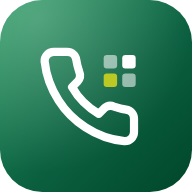
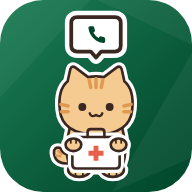
앱 마크 교체 (고양이)
Claude-Session: https://claude.ai/code/session_01H2dhBdsTd4MUACLFPyjzes

diff --git a/index.html b/index.html
@@ -370,12 +370,17 @@ nav.tabs button[aria-current="page"] { color: #fff; background: var(--brand-grad
 .rstar { border: 0; background: none; width: 28px; height: 26px; padding: 0; display: inline-grid; place-items: center; color: var(--faint); opacity: .5; flex: none }
 .rstar[aria-pressed="true"] { color: #9aa61a; opacity: 1 }
 .dutyOff { text-align: center; color: var(--faint); font-size: 12px; margin: 4px 0 0 }
+/* 앱 마크(고양이) — 그림에 바탕이 들어 있어 배경색은 없앰 */
+.logo-icon, .lock .mark { background: none !important }
+.logo-icon img, .lock .mark img { width: 100%; height: 100%; display: block }
+.logo-icon { width: 36px; height: 36px }
+.lock .mark { width: 76px; height: 76px }
 </style>
 </head>
 <body>
 <div id="lockView" class="lock gut" hidden>
   <div class="box">
-    <div class="mark"><svg width="28" height="28" viewBox="0 0 24 24" fill="none" stroke="#fff" stroke-width="2.2" stroke-linecap="round" stroke-linejoin="round"><path d="M22 16.9v3a2 2 0 0 1-2.2 2 19.8 19.8 0 0 1-8.6-3.1 19.5 19.5 0 0 1-6-6A19.8 19.8 0 0 1 2.1 4.2 2 2 0 0 1 4.1 2h3a2 2 0 0 1 2 1.7c.1.9.4 1.8.7 2.7a2 2 0 0 1-.5 2.1L8 9.8a16 16 0 0 0 6 6l1.3-1.3a2 2 0 0 1 2.1-.4c.9.3 1.8.6 2.7.7a2 2 0 0 1 1.7 2z"/></svg></div>
+    <div class="mark"><img src="icons/logo.svg" alt=""></div>
     <h1>전담 콜북</h1>
     <p id="lockMsg">관리자에게 받은 비밀번호를 입력하세요</p>
     <input id="pw" type="password" inputmode="text" autocomplete="current-password" placeholder="비밀번호" >
@@ -387,7 +392,7 @@ nav.tabs button[aria-current="page"] { color: #fff; background: var(--brand-grad
 <div id="appView" hidden>
   <header class="top gut" id="top">
     <div>
-      <div class="brand"><div class="logo"><span class="logo-icon"><svg width="18" height="18" viewBox="0 0 24 24" fill="none" stroke="#fff" stroke-width="2.2" stroke-linecap="round" stroke-linejoin="round"><path d="M22 16.9v3a2 2 0 0 1-2.2 2 19.8 19.8 0 0 1-8.6-3.1 19.5 19.5 0 0 1-6-6A19.8 19.8 0 0 1 2.1 4.2 2 2 0 0 1 4.1 2h3a2 2 0 0 1 2 1.7c.1.9.4 1.8.7 2.7a2 2 0 0 1-.5 2.1L8 9.8a16 16 0 0 0 6 6l1.3-1.3a2 2 0 0 1 2.1-.4c.9.3 1.8.6 2.7.7a2 2 0 0 1 1.7 2z"/></svg></span><div><div class="logo-text">전담 콜북</div><div class="meta" id="meta"></div></div></div></div>
+      <div class="brand"><div class="logo"><span class="logo-icon"><img src="icons/logo.svg" alt=""></span><div><div class="logo-text">전담 콜북</div><div class="meta" id="meta"></div></div></div></div>
       <div id="dateBar">
         <div class="dateRow">
           <button class="arrow" id="prev" aria-label="이전 날"><svg width="18" height="18" viewBox="0 0 24 24" fill="none" stroke="currentColor" stroke-width="2.2" stroke-linecap="round"><path d="M15 18l-6-6 6-6"/></svg></button>

diff --git a/sw.js b/sw.js
@@ -1,7 +1,7 @@
 /* 전담 콜북 — 오프라인 캐시. 앱 파일을 바꾸면 VERSION을 올리세요. */
-const VERSION = 'callbook-v19';
+const VERSION = 'callbook-v20';
 const FONT_HOSTS = ['cdn.jsdelivr.net', 'fonts.googleapis.com', 'fonts.gstatic.com'];
-const SHELL = ['./', 'index.html', 'engine.js', 'app.js', 'xlsxw.js', 'admin.js', 'manifest.webmanifest', 'icons/icon-192.png', 'icons/icon-512.png'];
+const SHELL = ['./', 'index.html', 'engine.js', 'app.js', 'xlsxw.js', 'admin.js', 'manifest.webmanifest', 'icons/icon-192.png', 'icons/icon-512.png', 'icons/logo.svg'];
 self.addEventListener('install', e => { e.waitUntil(caches.open(VERSION).then(c => c.addAll(SHELL)).then(() => self.skipWaiting())); });
 self.addEventListener('activate', e => { e.waitUntil(caches.keys().then(ks => Promise.all(ks.filter(k => k !== VERSION).map(k => caches.delete(k)))).then(() => self.clients.claim())); });
 self.addEventListener('fetch', e => {
